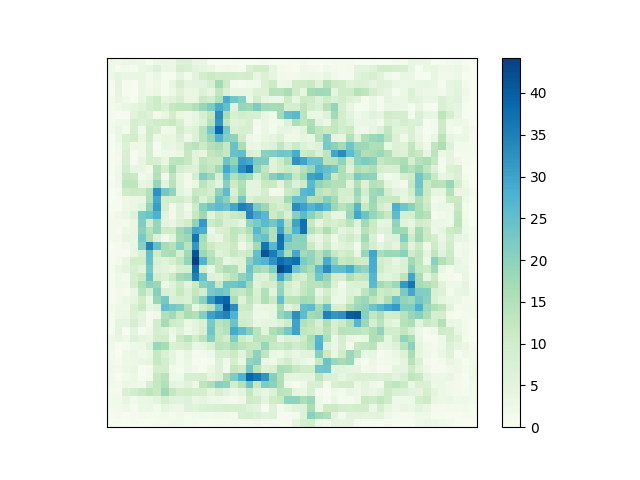
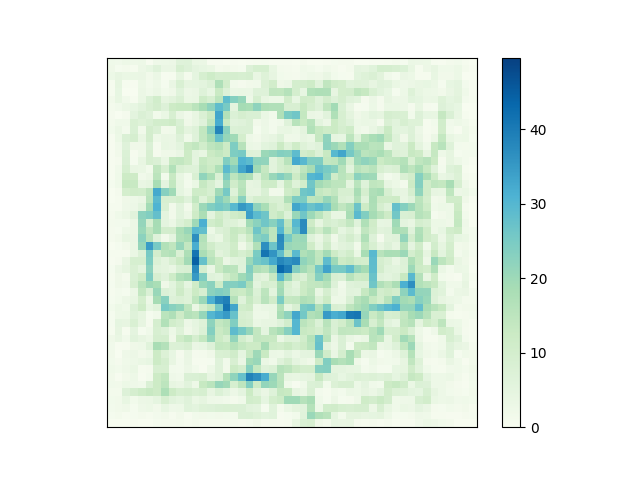
fixed scale and plot

diff --git a/GA_Training_Benchmark_Maps/traffic_plot.py b/GA_Training_Benchmark_Maps/traffic_plot.py
@@ -21,7 +21,8 @@ def load_obstacles(env):
             data = ast.literal_eval(row[0])
         return data
     
-
+data = {}
+matrix_with_info = []
 # List all files in the folder
 file_list = [item for item in os.listdir(folder_path) if os.path.isfile(os.path.join(folder_path, item))]
 
@@ -75,30 +76,21 @@ with open(logging_status_filename, 'r') as log_file:
 
         matrix = matrix / experments_size
         max_val = np.max(matrix)
+        # Append new data
+        key = (env)
+        if key not in data:
+            # Key is not present, add the data
+            new_entry = {key: max_val}
+            data.update(new_entry)
+        else:
+            # Key exists, compare the max_val and replace if necessary
+            existing_max_val = data[key]
+            if max_val > existing_max_val:
+                data[key] = max_val
         matrix = np.transpose(matrix)
 
-        # Create a figure and axes
-        fig, ax = plt.subplots()
-        heatmap = ax.imshow(matrix, cmap='GnBu', origin="lower", vmax=max_val)
-        
-        black_fields = load_obstacles(env)
-        if dotbool:
-            for field in black_fields:
-                # ax.add_patch(plt.Rectangle((field[0]-0.5, field[1]-0.5), 1, 1, fill=True, color='black', alpha=1))
-                ax.plot(field[0]-0.05, field[1]+0.05, marker='o', markersize=4.5, color='black', alpha=0.8)
-        # Add colorbar for reference
-        # if encoding == "edge_weight":
-        fig.colorbar(heatmap)
-        # Remove x and y ticks
-        ax.set_xticks([])
-        ax.set_yticks([])
-        # Add a title
-    
-        # plt.title(f"{env}", fontsize=17)
+        matrix_with_info.append((matrix,env,num_agents,encoding_scheme_name,mutation_rate,env_repetition))
 
-        # Show the plot
-        plt.savefig(f"GA_Training_Benchmark_Maps/plots/{env}_{num_agents}_{encoding_scheme_name}_{mutation_rate}_{env_repetition}.png")
-        # plt.show()
 
 ############################################
 ############################################
@@ -143,17 +135,34 @@ for i, experments_sum in enumerate(experments_sums):
         env = map
         matrix = matrix / experments_size
         max_val = np.max(matrix)
+         # Append new data
+        key = (env)
+        if key not in data:
+            # Key is not present, add the data
+            new_entry = {key: max_val}
+            data.update(new_entry)
+        else:
+            # Key exists, compare the max_val and replace if necessary
+            existing_max_val = data[key]
+            if max_val > existing_max_val:
+                data[key] = max_val
         matrix = np.transpose(matrix)
+        
+        matrix_with_info.append((matrix,env,num_agents,"default",0,0))
 
+for matrix,env,num_agents,encoding_scheme_name,mutation_rate,env_repetition in matrix_with_info:
         # Create a figure and axes
         fig, ax = plt.subplots()
-        heatmap = ax.imshow(matrix, cmap='GnBu', origin="lower", vmax=max_val)
+        heatmap = ax.imshow(matrix, cmap='GnBu', origin="lower", vmax=data[env])
         
         black_fields = load_obstacles(env)
         if dotbool:
             for field in black_fields:
                 # ax.add_patch(plt.Rectangle((field[0]-0.5, field[1]-0.5), 1, 1, fill=True, color='black', alpha=1))
-                ax.plot(field[0]-0.05, field[1]+0.05, marker='o', markersize=4.5, color='black', alpha=0.8)
+                if env == "random-64-64-20":
+                    ax.plot(field[0]-0.05, field[1]+0.05, marker='o', markersize=3, color='black', alpha=0.8)
+                else:
+                    ax.plot(field[0]-0.05, field[1]+0.05, marker='o', markersize=4.5, color='black', alpha=0.8)
         # Add colorbar for reference
         # if encoding == "edge_weight":
         fig.colorbar(heatmap)
@@ -164,9 +173,12 @@ for i, experments_sum in enumerate(experments_sums):
     
         # plt.title(f"{env}", fontsize=17)
 
-        # Show the plot
-        plt.savefig(f"GA_Training_Benchmark_Maps/plots/{env}_{num_agents}_default.png")
-        # plt.show()
+        if encoding_scheme_name == "default":
+            plt.savefig(f"GA_Training_Benchmark_Maps/plots/{env}_{num_agents}_default.png")
+        else:
+            plt.savefig(f"GA_Training_Benchmark_Maps/plots/{env}_{num_agents}_{encoding_scheme_name}_{mutation_rate}_{env_repetition}.png")
+
+
+
 
 print("Done")
-
